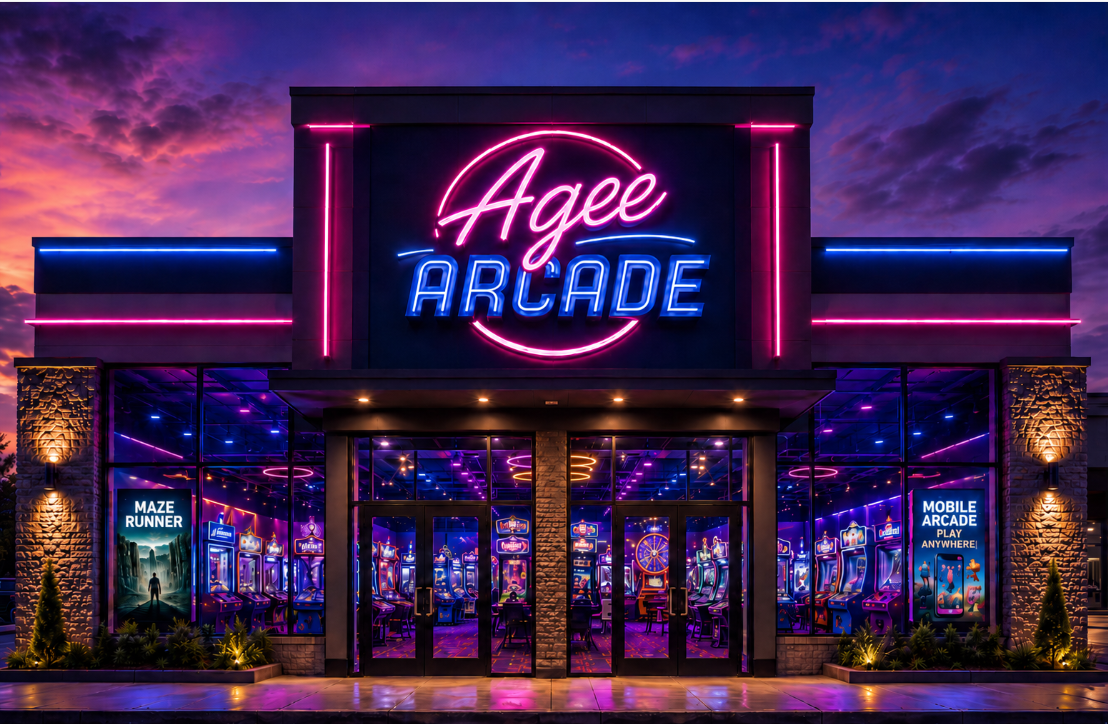
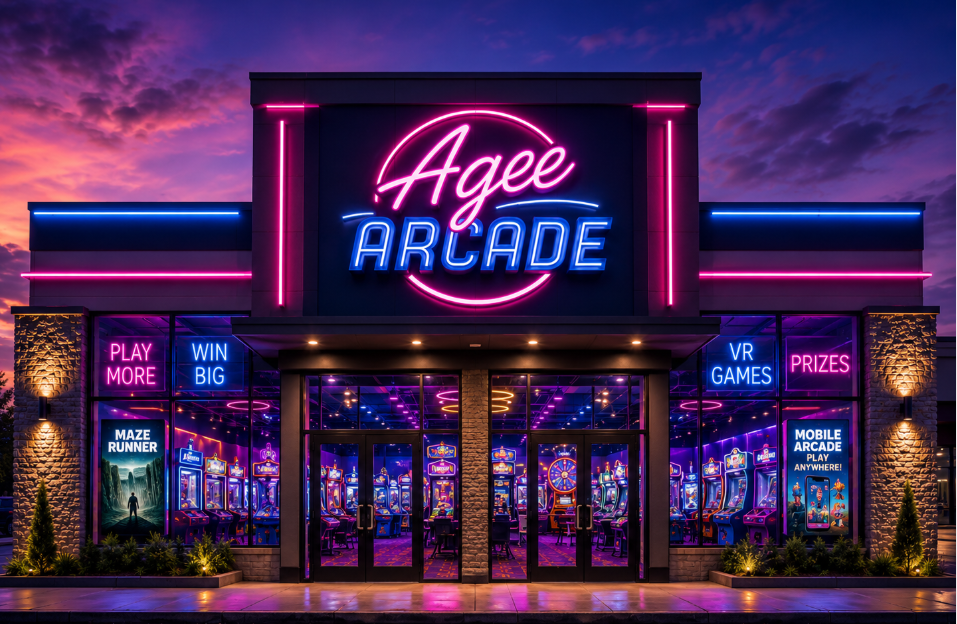
Add files via upload
ads updates

diff --git a/index.html b/index.html
@@ -8,11 +8,11 @@
   <meta property="og:title" content="Agee Games — Free Browser Games by Jeremie Agee" />
   <meta property="og:description" content="Play free browser games built by solo developer Jeremie Agee. No downloads, no sign-ups, just fun." />
   <meta property="og:image" content="images/arcade.png" />
-  <meta property="og:url" content="https://ageegames.com/" />
+  <meta property="og:url" content="https://www.ageegaming.com/" />
   <meta name="twitter:card" content="summary_large_image" />
   <link rel="icon" href="images/arcade.png" />
   <link rel="stylesheet" href="styles.css" />
-  <link rel="stylesheet" href="./AgeeArcade/css/main.css?v=20260604-arcade" />
+  <link rel="stylesheet" href="./AgeeArcade/css/main.css?v=20260610-spear" />
   <script async src="https://pagead2.googlesyndication.com/pagead/js/adsbygoogle.js?client=ca-pub-9709866738532619" crossorigin="anonymous"></script>
 </head>
 <body>
@@ -59,14 +59,14 @@
 
   </main>
 
-  <footer>&copy; <span id="footer-year"></span> ageegames.com &mdash; Built by Jeremie Agee &mdash; <a href="privacy.html">Privacy Policy</a></footer>
+  <footer>&copy; 2026 ageegaming.com &mdash; Built by Jeremie Agee &mdash; <a href="privacy.html">Privacy Policy</a></footer>
   <script>window.AgeeArcadeRoot = './AgeeArcade/';</script>
   <script src="https://cdn.jsdelivr.net/npm/@supabase/supabase-js@2/dist/umd/supabase.min.js"></script>
   <script src="./AgeeArcade/js/analytics.js"></script>
   <script src="./AgeeArcade/js/arcade-auth.js"></script>
   <script src="./AgeeArcade/js/comments.js"></script>
-  <script src="./AgeeArcade/js/games.js"></script>
-  <script src="./AgeeArcade/js/main.js"></script>
+  <script src="./AgeeArcade/js/games.js?v=20260610-spear"></script>
+  <script src="./AgeeArcade/js/main.js?v=20260610-spear"></script>
   <script src="script.js"></script>
   <script>
     document.addEventListener('DOMContentLoaded', function () {

diff --git a/about.html b/about.html
@@ -7,7 +7,7 @@
   <meta name="description" content="Learn about Jeremie Agee, the developer behind Agee Games and Agee Arcade." />
   <meta property="og:title" content="About — Agee Games" />
   <meta property="og:description" content="Learn about Jeremie Agee, the developer behind Agee Games and Agee Arcade." />
-  <meta property="og:url" content="https://ageegames.com/about.html" />
+  <meta property="og:url" content="https://www.ageegaming.com/about.html" />
   <link rel="icon" href="images/arcade.png" />
   <link rel="stylesheet" href="styles.css" />
   <link rel="stylesheet" href="./AgeeArcade/css/main.css?v=20260604-arcade" />
@@ -53,7 +53,7 @@
     </section>
   </main>
 
-  <footer class="site-footer">&copy; 2026 ageegames.com &mdash; Built by Jeremie Agee &mdash; <a href="privacy.html">Privacy Policy</a></footer>
+  <footer class="site-footer">&copy; 2026 ageegaming.com &mdash; Built by Jeremie Agee &mdash; <a href="privacy.html">Privacy Policy</a></footer>
   <script>window.AgeeArcadeRoot = './AgeeArcade/';</script>
   <script src="https://cdn.jsdelivr.net/npm/@supabase/supabase-js@2/dist/umd/supabase.min.js"></script>
   <script src="./AgeeArcade/js/analytics.js"></script>

diff --git a/privacy.html b/privacy.html
@@ -28,6 +28,6 @@
     </section>
   </main>
 
-  <footer>&copy; 2026 jeremieagee.github.io &mdash; Built by Jeremie Agee</footer>
+  <footer>&copy; 2026 ageegaming.com &mdash; Built by Jeremie Agee &mdash; <a href="privacy.html">Privacy Policy</a></footer>
 </body>
 </html>